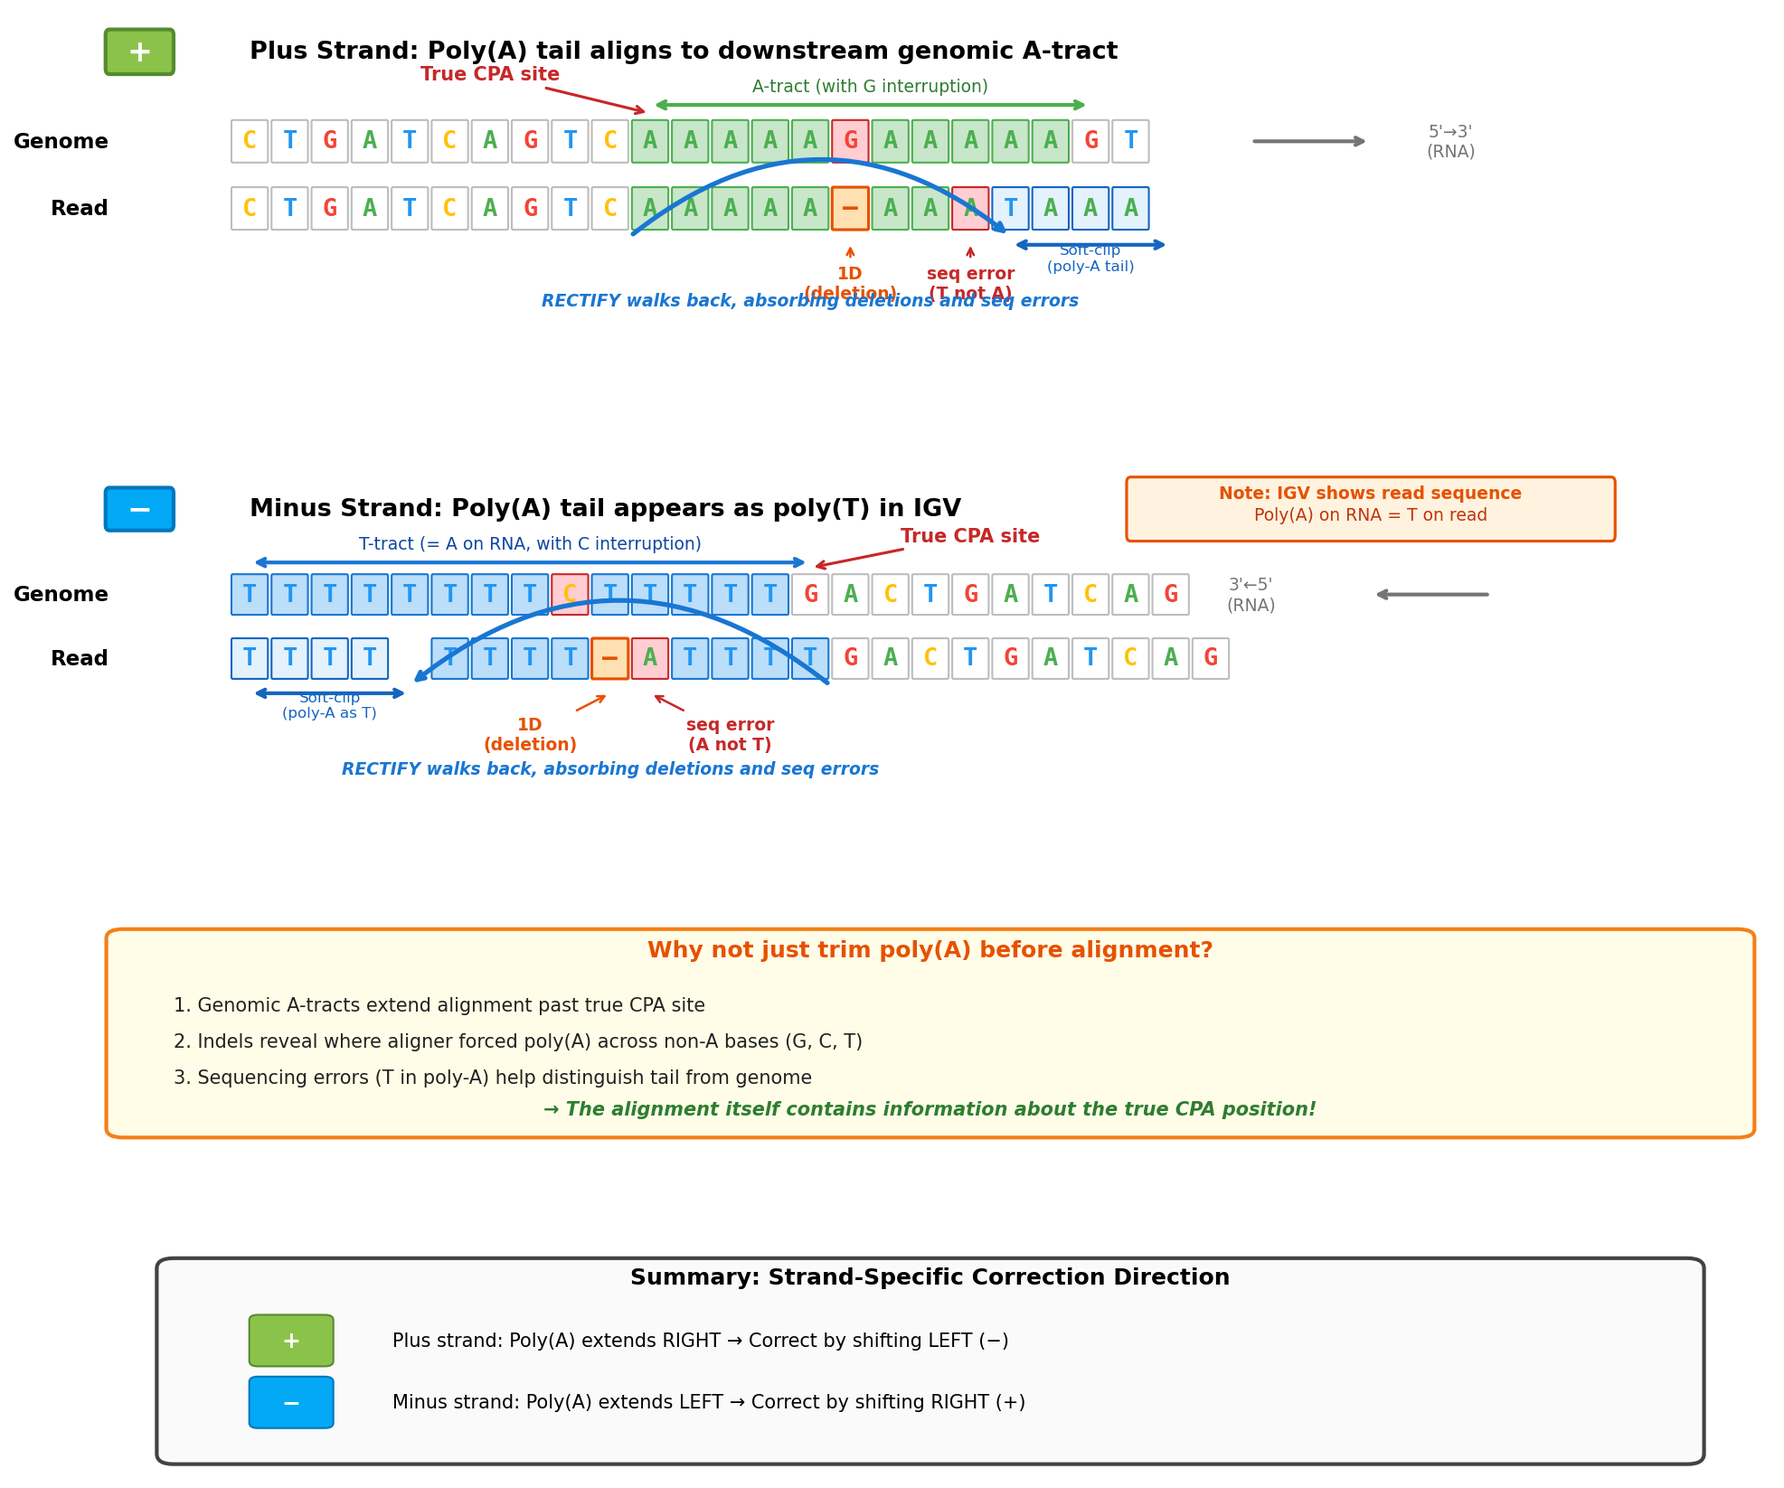
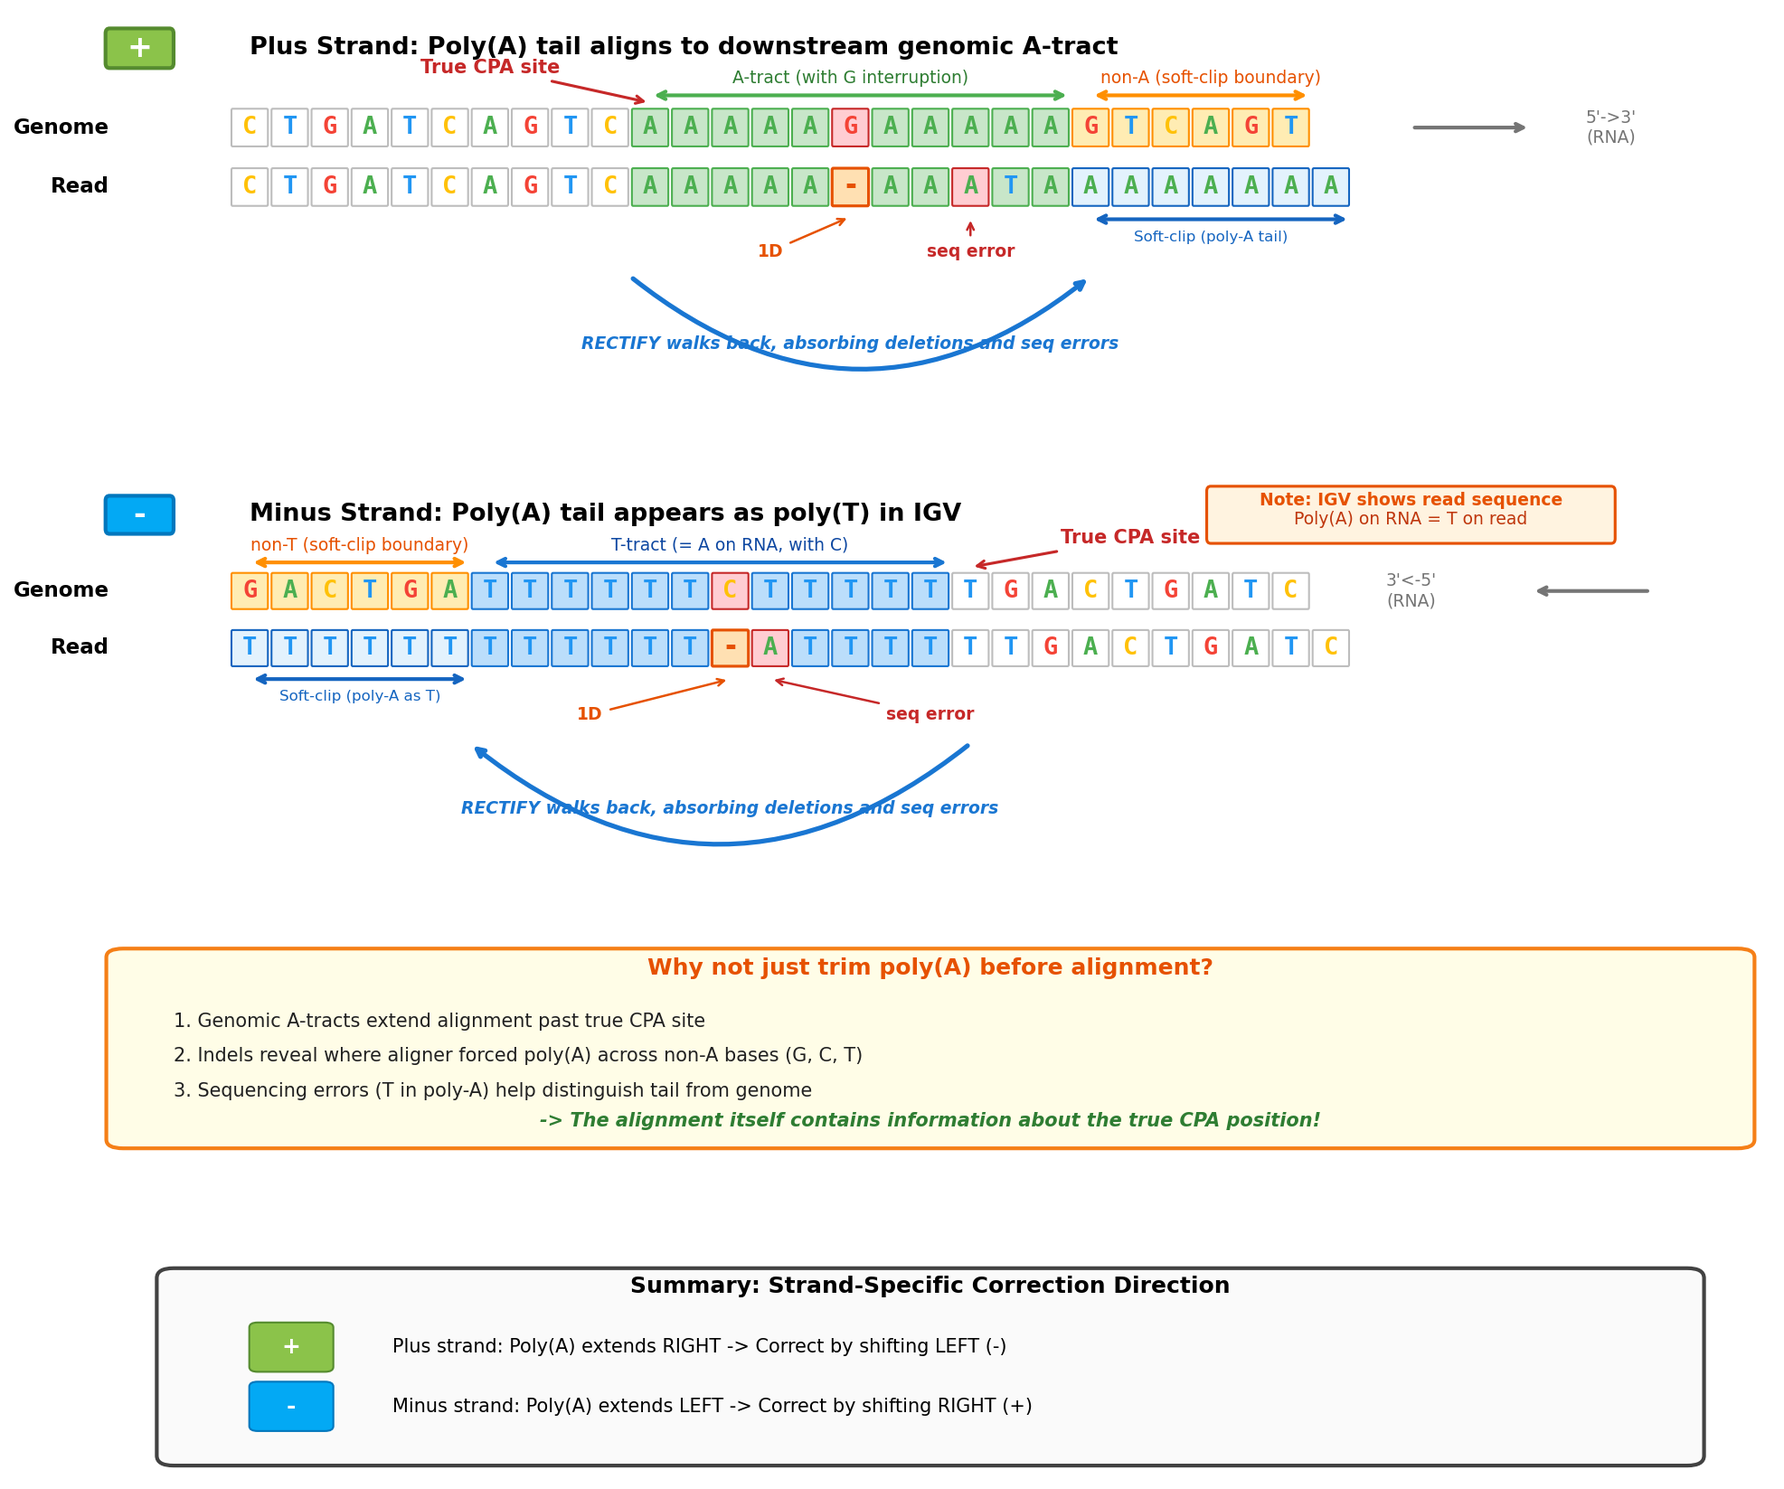
Update indel correction figure with improved layout
- Extended sequences to show non-A bases where soft-clipping occurs
- Fixed annotation overlaps by repositioning labels
- Spread out 1D and seq error annotations on minus strand
- Added amber highlighting for soft-clip boundary regions
- Fixed minus strand alignment offset issue

diff --git a/scripts/create_indel_correction_figure.py b/scripts/create_indel_correction_figure.py
@@ -1,4 +1,5 @@
 #!/usr/bin/env python3
+# -*- coding: utf-8 -*-
 """
 Create aesthetic indel correction figure for README.
 
@@ -8,7 +9,8 @@ that RECTIFY corrects, with both plus and minus strand examples.
 Key features shown:
 1. Indels where minimap2 forces poly(A) across non-A genomic bases
 2. Sequencing errors (T instead of A) in poly(A) tail region
-3. Why we can't just trim poly(A) before alignment
+3. Non-A bases in genome where soft-clipping begins (aligner can't extend further)
+4. Why we can't just trim poly(A) before alignment
 
 Author: Kevin R. Roy
 Date: 2026-03-19
@@ -39,6 +41,7 @@ COLORS = {
     'text': '#212121',  # Dark gray
     'plus': '#8BC34A',  # Light green for + strand
     'minus': '#03A9F4',  # Light blue for - strand
+    'nonA': '#FFECB3',  # Light amber for non-A positions where soft-clip starts
 }
 
 def draw_base(ax, base, x, y, fontsize=13, bg_color='white', edge_color='#BDBDBD',
@@ -51,7 +54,7 @@ def draw_base(ax, base, x, y, fontsize=13, bg_color='white', edge_color='#BDBDBD
                               facecolor=COLORS['deletion'],
                               edgecolor='#E65100', linewidth=1.5)
         ax.add_patch(rect)
-        ax.text(x, y, '−', ha='center', va='center', fontsize=fontsize+2,
+        ax.text(x, y, '-', ha='center', va='center', fontsize=fontsize+2,
                fontweight='bold', color='#E65100', family='monospace')
     elif base == ' ':
         pass  # Skip spaces
@@ -92,7 +95,7 @@ def draw_sequence_with_features(ax, seq, y, x_start=0, features=None, fontsize=1
     return x
 
 # Create subplots
-gs = fig.add_gridspec(4, 1, height_ratios=[1.4, 1.4, 0.9, 0.9], hspace=0.35)
+gs = fig.add_gridspec(4, 1, height_ratios=[1.5, 1.5, 0.9, 0.9], hspace=0.35)
 ax1 = fig.add_subplot(gs[0])  # Plus strand
 ax2 = fig.add_subplot(gs[1])  # Minus strand
 ax3 = fig.add_subplot(gs[2])  # Why not just trim explanation
@@ -102,7 +105,7 @@ ax4 = fig.add_subplot(gs[3])  # Summary
 # Panel A: Plus Strand Example with indels and sequencing error
 # ============================================================================
 ax1.set_xlim(-4, 38)
-ax1.set_ylim(-1.8, 4.5)
+ax1.set_ylim(-2.8, 4.5)
 ax1.axis('off')
 
 # Title with strand indicator
@@ -114,20 +117,21 @@ ax1.text(-2.75, 3.8, '+', ha='center', va='center', fontsize=16,
 ax1.text(0, 3.8, 'Plus Strand: Poly(A) tail aligns to downstream genomic A-tract',
          fontsize=13, fontweight='bold', va='center')
 
-# Reference sequence for + strand: CPA site, then A-tract with a G in the middle
-# Genome:  C T G A T C A G T C | A A A A A G A A A A A | G T C A
-#          0 1 2 3 4 5 6 7 8 9  10 11 12 13 14 15 16 17 18 19 20  21 22 23 24
-#                              ^CPA site              ^non-A in tract
+# Reference sequence for + strand:
+# Genome:  C T G A T C A G T C | A A A A A G A A A A A | G T C A G T
+#          0 1 2 3 4 5 6 7 8 9  10 11 12 13 14 15 16 17 18 19 20  21 22 23 24 25 26
+#                              ^CPA site              ^non-A       ^soft-clip boundary
+# The G at position 15 causes deletion, positions 21+ have non-A bases where soft-clipping starts
 
-ref_plus = "CTGATCAGTCAAAAAGAAAAAGT"
+ref_plus = "CTGATCAGTCAAAAAGAAAAAGTCAGT"
 #           0         1         2
-#           0123456789012345678901234
+#           012345678901234567890123456
 
-# Read with poly(A) tail - note:
+# Read with poly(A) tail:
 # - Position 15 (G in genome) shows as deletion in read (minimap2 skips it)
 # - Position 18 shows T (sequencing error in poly(A))
-# - Positions 21+ are soft-clipped
-read_plus = "CTGATCAGTCAAAAA-AAATAAA"  # - is deletion, T is seq error
+# - Positions 21-26 are soft-clipped (genome has GTCAGT, read has AAAAAA)
+read_plus = "CTGATCAGTCAAAAA-AAATAAAAAAAA"  # - is deletion, T is seq error, trailing A's soft-clipped
 
 # Features for reference
 ref_features = {}
@@ -135,11 +139,14 @@ ref_features = {}
 for i in range(10, 21):
     ref_features[i] = {'bg': '#C8E6C9', 'edge': '#4CAF50'}
 # Mark the G at position 15 specially
-ref_features[15] = {'bg': '#FFCDD2', 'edge': '#C62828'}  # Red - non-A
+ref_features[15] = {'bg': '#FFCDD2', 'edge': '#C62828'}  # Red - non-A in A-tract
+# Non-A positions where soft-clipping occurs (positions 21-26)
+for i in range(21, 27):
+    ref_features[i] = {'bg': COLORS['nonA'], 'edge': '#FF8F00'}  # Amber - this is where soft-clip starts
 
 # Features for read
 read_features = {}
-# Aligned A's
+# Aligned A's (before deletion)
 for i in range(10, 15):
     read_features[i] = {'bg': '#C8E6C9', 'edge': '#4CAF50'}
 # Deletion at position 15
@@ -149,8 +156,11 @@ for i in range(16, 18):
     read_features[i] = {'bg': '#C8E6C9', 'edge': '#4CAF50'}
 # Sequencing error at position 18 (T instead of A)
 read_features[18] = {'bg': COLORS['error'], 'edge': '#C62828'}
-# Soft-clipped region (positions 19+)
-for i in range(19, 23):
+# More aligned A's (positions 19-20)
+for i in range(19, 21):
+    read_features[i] = {'bg': '#C8E6C9', 'edge': '#4CAF50'}
+# Soft-clipped region (positions 21-27) - these A's couldn't align to genome's GTCAGT
+for i in range(21, 28):
     read_features[i] = {'bg': COLORS['softclip'], 'edge': '#1565C0'}
 
 # Draw reference
@@ -168,95 +178,107 @@ ax1.annotate('True CPA site', xy=(10, 2.7), xytext=(6, 3.3),
             arrowprops=dict(arrowstyle='->', color='#C62828', lw=1.5))
 
 # A-tract with interruption
-ax1.annotate('', xy=(10, 2.85), xytext=(21, 2.85),
+ax1.annotate('', xy=(10, 2.85), xytext=(20.5, 2.85),
             arrowprops=dict(arrowstyle='<->', color='#4CAF50', lw=2))
-ax1.text(15.5, 3.1, 'A-tract (with G interruption)', ha='center', fontsize=9, color='#2E7D32')
+ax1.text(15, 3.1, 'A-tract (with G interruption)', ha='center', fontsize=9, color='#2E7D32')
 
-# Mark the deletion
-ax1.annotate('1D\n(deletion)', xy=(15, 0.4), xytext=(15, -0.6),
+# Non-A region annotation (where soft-clipping occurs)
+ax1.annotate('', xy=(21, 2.85), xytext=(26.5, 2.85),
+            arrowprops=dict(arrowstyle='<->', color='#FF8F00', lw=2))
+ax1.text(24, 3.1, 'non-A (soft-clip boundary)', ha='center', fontsize=9, color='#E65100')
+
+# Mark the deletion - positioned to avoid overlap
+ax1.annotate('1D', xy=(15, 0.4), xytext=(13, -0.4),
             fontsize=9, ha='center', color='#E65100', fontweight='bold',
             arrowprops=dict(arrowstyle='->', color='#E65100', lw=1.2))
 
-# Mark the sequencing error
-ax1.annotate('seq error\n(T not A)', xy=(18, 0.4), xytext=(18, -0.6),
+# Mark the sequencing error - positioned to avoid overlap
+ax1.annotate('seq error', xy=(18, 0.4), xytext=(18, -0.4),
             fontsize=9, ha='center', color='#C62828', fontweight='bold',
             arrowprops=dict(arrowstyle='->', color='#C62828', lw=1.2))
 
-# Soft-clip annotation - moved below the read
-ax1.annotate('', xy=(19, 0.35), xytext=(23, 0.35),
+# Soft-clip annotation
+ax1.annotate('', xy=(21, 0.35), xytext=(27.5, 0.35),
             arrowprops=dict(arrowstyle='<->', color='#1565C0', lw=2))
-ax1.text(21, -0.1, 'Soft-clip\n(poly-A tail)', ha='center', fontsize=8, color='#1565C0')
+ax1.text(24, -0.1, 'Soft-clip (poly-A tail)', ha='center', fontsize=8, color='#1565C0')
 
-# Correction arrow - curves BELOW the sequences (away from genome/read)
-ax1.annotate('', xy=(9.5, 0.5), xytext=(19, 0.5),
+# Correction arrow - curves BELOW the sequences (completely outside alignment)
+ax1.annotate('', xy=(9.5, -0.8), xytext=(21, -0.8),
             arrowprops=dict(arrowstyle='<-', color=COLORS['arrow'], lw=2.5,
-                           connectionstyle="arc3,rad=0.4"))
-ax1.text(14, -0.5, 'RECTIFY walks back, absorbing deletions and seq errors',
+                           connectionstyle="arc3,rad=-0.4"))
+ax1.text(15, -2.0, 'RECTIFY walks back, absorbing deletions and seq errors',
          ha='center', va='top', fontsize=9, color=COLORS['arrow'], fontweight='bold', style='italic')
 
 # RNA direction
-ax1.annotate('', xy=(28, 2.2), xytext=(25, 2.2),
+ax1.annotate('', xy=(32, 2.2), xytext=(29, 2.2),
             arrowprops=dict(arrowstyle='->', color='#757575', lw=2))
-ax1.text(30, 2.2, "5'→3'\n(RNA)", ha='center', va='center', fontsize=9, color='#757575')
+ax1.text(34, 2.2, "5'->3'\n(RNA)", ha='center', va='center', fontsize=9, color='#757575')
 
 # ============================================================================
 # Panel B: Minus Strand Example with indels and sequencing error
 # ============================================================================
 ax2.set_xlim(-4, 38)
-ax2.set_ylim(-1.8, 4.8)
+ax2.set_ylim(-2.8, 4.8)
 ax2.axis('off')
 
 # Title with strand indicator
 ax2.add_patch(FancyBboxPatch((-3.5, 3.7), 1.5, 0.6,
               boxstyle="round,pad=0.1", facecolor=COLORS['minus'],
               edgecolor='#0277BD', linewidth=2))
-ax2.text(-2.75, 4.0, '−', ha='center', va='center', fontsize=16,
+ax2.text(-2.75, 4.0, '-', ha='center', va='center', fontsize=16,
          fontweight='bold', color='white')
 ax2.text(0, 4.0, 'Minus Strand: Poly(A) tail appears as poly(T) in IGV',
          fontsize=13, fontweight='bold', va='center')
 
 # Add explanation box for IGV confusion
-ax2.add_patch(FancyBboxPatch((22, 3.5), 12, 1.0,
+ax2.add_patch(FancyBboxPatch((24, 3.5), 10, 1.0,
               boxstyle="round,pad=0.1", facecolor='#FFF3E0',
               edgecolor='#E65100', linewidth=1.5))
-ax2.text(28, 4.2, 'Note: IGV shows read sequence', ha='center', fontsize=9, fontweight='bold', color='#E65100')
-ax2.text(28, 3.8, 'Poly(A) on RNA = T on read', ha='center', fontsize=9, color='#BF360C')
+ax2.text(29, 4.2, 'Note: IGV shows read sequence', ha='center', fontsize=9, fontweight='bold', color='#E65100')
+ax2.text(29, 3.8, 'Poly(A) on RNA = T on read', ha='center', fontsize=9, color='#BF360C')
 
-# Reference sequence for - strand: T-tract with C interruption, then CPA site
-# Genome:  T T T T | T T T T C T T T T T | G A C T G A T C A G
-#          0 1 2 3   4 5 6 7 8 9 ...      14 ...
-#                              ^non-T       ^CPA site
+# Reference sequence for - strand:
+# Genome:  G A C T G A | T T T T T T C T T T T T | G A C T G A T C
+#          0 1 2 3 4 5   6 7 8 9 10 11 12 13 14 15 16 17   18 19 20 21 22 23 24 25
+#          ^non-T region  ^T-tract with C           ^CPA site
+# Non-T bases (positions 0-5) are where soft-clipping occurs
+# C at position 12 causes deletion
 
-ref_minus = "TTTTTTTTCTTTTTGACTGATCAG"
+ref_minus = "GACTGATTTTTTCTTTTTTGACTGATC"
 #            0         1         2
-#            012345678901234567890123
+#            012345678901234567890123456
 
-# Read - minimap2 introduces deletion at C (position 8), and there's a sequencing error
-read_minus = "TTTT TTTT-ATTTTGACTGATCAG"  # First 4 soft-clipped, - is deletion, A is error
+# Read - soft-clipped T's extend past genome's GACTGA, deletion at C, sequencing error
+# Read:  T T T T T T | T T T T T T - A T T T T T | G A C T G A T C
+#        0 1 2 3 4 5   6 7 8 9 10 11 12 13 ...
+#        ^soft-clipped   ^aligned      ^del ^error
+read_minus = "TTTTTTTTTTTT-ATTTTTTGACTGATC"
 
 # Features for reference
 ref_features2 = {}
-# T-tract region (positions 0-13) in blue
-for i in range(0, 14):
+# Non-T region at start (positions 0-5) - where soft-clipping occurs
+for i in range(0, 6):
+    ref_features2[i] = {'bg': COLORS['nonA'], 'edge': '#FF8F00'}
+# T-tract region (positions 6-17) in blue
+for i in range(6, 18):
     ref_features2[i] = {'bg': '#BBDEFB', 'edge': '#1976D2'}
-# Mark the C at position 8 specially
-ref_features2[8] = {'bg': '#FFCDD2', 'edge': '#C62828'}  # Red - non-T
+# Mark the C at position 12 specially
+ref_features2[12] = {'bg': '#FFCDD2', 'edge': '#C62828'}  # Red - non-T in T-tract
 
 # Features for read
 read_features2 = {}
-# Soft-clipped T's (positions 0-3)
-for i in range(0, 4):
+# Soft-clipped T's (positions 0-5) - these couldn't align to genome's GACTGA
+for i in range(0, 6):
     read_features2[i] = {'bg': COLORS['softclip'], 'edge': '#1565C0'}
-# Skip position 4 (space)
-# Aligned T's (positions 5-8 in string = genomic 4-7)
-for i in range(5, 9):
+# Aligned T's (positions 6-11)
+for i in range(6, 12):
     read_features2[i] = {'bg': '#BBDEFB', 'edge': '#1976D2'}
-# Deletion at position 9 (the C)
-read_features2[9] = {'deletion': True}
-# Sequencing error at position 10 (A instead of T)
-read_features2[10] = {'bg': COLORS['error'], 'edge': '#C62828'}
-# More aligned T's
-for i in range(11, 15):
+# Deletion at position 12 (the C)
+read_features2[12] = {'deletion': True}
+# Sequencing error at position 13 (A instead of T)
+read_features2[13] = {'bg': COLORS['error'], 'edge': '#C62828'}
+# More aligned T's (positions 14-17)
+for i in range(14, 18):
     read_features2[i] = {'bg': '#BBDEFB', 'edge': '#1976D2'}
 
 # Draw reference
@@ -268,42 +290,47 @@ ax2.text(-3.5, 1.2, 'Read', ha='right', va='center', fontsize=11, fontweight='bo
 draw_sequence_with_features(ax2, read_minus, 1.2, x_start=0, features=read_features2)
 
 # Annotations
+# Non-T region (soft-clip boundary)
+ax2.annotate('', xy=(0, 3.0), xytext=(5.5, 3.0),
+            arrowprops=dict(arrowstyle='<->', color='#FF8F00', lw=2))
+ax2.text(2.75, 3.25, 'non-T (soft-clip boundary)', ha='center', fontsize=9, color='#E65100')
+
+# T-tract with interruption
+ax2.annotate('', xy=(6, 3.0), xytext=(17.5, 3.0),
+            arrowprops=dict(arrowstyle='<->', color='#1976D2', lw=2))
+ax2.text(12, 3.25, 'T-tract (= A on RNA, with C)', ha='center', fontsize=9, color='#0D47A1')
+
 # CPA site
-ax2.annotate('True CPA site', xy=(14, 2.9), xytext=(18, 3.4),
+ax2.annotate('True CPA site', xy=(18, 2.9), xytext=(22, 3.4),
             fontsize=10, ha='center', color='#C62828', fontweight='bold',
             arrowprops=dict(arrowstyle='->', color='#C62828', lw=1.5))
 
-# T-tract with interruption
-ax2.annotate('', xy=(0, 3.0), xytext=(14, 3.0),
-            arrowprops=dict(arrowstyle='<->', color='#1976D2', lw=2))
-ax2.text(7, 3.25, 'T-tract (= A on RNA, with C interruption)', ha='center', fontsize=9, color='#0D47A1')
-
-# Soft-clip annotation - moved below the read
-ax2.annotate('', xy=(0, 0.55), xytext=(4, 0.55),
+# Soft-clip annotation
+ax2.annotate('', xy=(0, 0.55), xytext=(5.5, 0.55),
             arrowprops=dict(arrowstyle='<->', color='#1565C0', lw=2))
-ax2.text(2, 0.1, 'Soft-clip\n(poly-A as T)', ha='center', fontsize=8, color='#1565C0')
+ax2.text(2.75, 0.1, 'Soft-clip (poly-A as T)', ha='center', fontsize=8, color='#1565C0')
 
-# Mark the deletion (at genomic position 8, read position 9) - moved lower
-ax2.annotate('1D\n(deletion)', xy=(9, 0.55), xytext=(7, -0.5),
+# Mark the deletion - positioned to avoid overlap
+ax2.annotate('1D', xy=(12, 0.55), xytext=(8.5, -0.3),
             fontsize=9, ha='center', color='#E65100', fontweight='bold',
             arrowprops=dict(arrowstyle='->', color='#E65100', lw=1.2))
 
-# Mark the sequencing error - moved lower
-ax2.annotate('seq error\n(A not T)', xy=(10, 0.55), xytext=(12, -0.5),
+# Mark the sequencing error - positioned to avoid overlap
+ax2.annotate('seq error', xy=(13, 0.55), xytext=(17, -0.3),
             fontsize=9, ha='center', color='#C62828', fontweight='bold',
             arrowprops=dict(arrowstyle='->', color='#C62828', lw=1.2))
 
-# Correction arrow - curves BELOW the sequences (away from genome/read)
-ax2.annotate('', xy=(14.5, 0.7), xytext=(4, 0.7),
+# Correction arrow - curves BELOW the sequences (completely outside alignment)
+ax2.annotate('', xy=(18, -0.8), xytext=(5.5, -0.8),
             arrowprops=dict(arrowstyle='<-', color=COLORS['arrow'], lw=2.5,
-                           connectionstyle="arc3,rad=-0.4"))
-ax2.text(9, -0.7, 'RECTIFY walks back, absorbing deletions and seq errors',
+                           connectionstyle="arc3,rad=0.4"))
+ax2.text(12, -2.0, 'RECTIFY walks back, absorbing deletions and seq errors',
          ha='center', va='top', fontsize=9, color=COLORS['arrow'], fontweight='bold', style='italic')
 
 # RNA direction (opposite for minus strand)
-ax2.annotate('', xy=(28, 2.4), xytext=(31, 2.4),
+ax2.annotate('', xy=(32, 2.4), xytext=(35, 2.4),
             arrowprops=dict(arrowstyle='->', color='#757575', lw=2))
-ax2.text(25, 2.4, "3'←5'\n(RNA)", ha='center', va='center', fontsize=9, color='#757575')
+ax2.text(29, 2.4, "3'<-5'\n(RNA)", ha='center', va='center', fontsize=9, color='#757575')
 
 # ============================================================================
 # Panel C: Why we can't just trim poly(A) before alignment
@@ -329,7 +356,7 @@ ax3.text(0.5, 1.1, '2. Indels reveal where aligner forced poly(A) across non-A b
 ax3.text(0.5, 0.7, '3. Sequencing errors (T in poly-A) help distinguish tail from genome',
          ha='left', fontsize=10, color=COLORS['text'])
 
-ax3.text(5, 0.35, '→ The alignment itself contains information about the true CPA position!',
+ax3.text(5, 0.35, '-> The alignment itself contains information about the true CPA position!',
          ha='center', fontsize=10, fontweight='bold', color='#2E7D32', style='italic')
 
 # ============================================================================
@@ -355,16 +382,16 @@ ax4.add_patch(FancyBboxPatch((1, 1.1), 0.4, 0.4,
               edgecolor='#558B2F'))
 ax4.text(1.2, 1.3, '+', ha='center', va='center', fontsize=12,
          fontweight='bold', color='white')
-ax4.text(1.8, 1.3, 'Plus strand: Poly(A) extends RIGHT → Correct by shifting LEFT (−)',
+ax4.text(1.8, 1.3, 'Plus strand: Poly(A) extends RIGHT -> Correct by shifting LEFT (-)',
          ha='left', va='center', fontsize=10)
 
 # Minus strand summary
 ax4.add_patch(FancyBboxPatch((1, 0.5), 0.4, 0.4,
               boxstyle="round,pad=0.05", facecolor=COLORS['minus'],
               edgecolor='#0277BD'))
-ax4.text(1.2, 0.7, '−', ha='center', va='center', fontsize=12,
+ax4.text(1.2, 0.7, '-', ha='center', va='center', fontsize=12,
          fontweight='bold', color='white')
-ax4.text(1.8, 0.7, 'Minus strand: Poly(A) extends LEFT → Correct by shifting RIGHT (+)',
+ax4.text(1.8, 0.7, 'Minus strand: Poly(A) extends LEFT -> Correct by shifting RIGHT (+)',
          ha='left', va='center', fontsize=10)
 
 plt.savefig('/oak/stanford/groups/larsms/Users/kevinroy/software/rectify/docs/figures/indel_correction.png',
